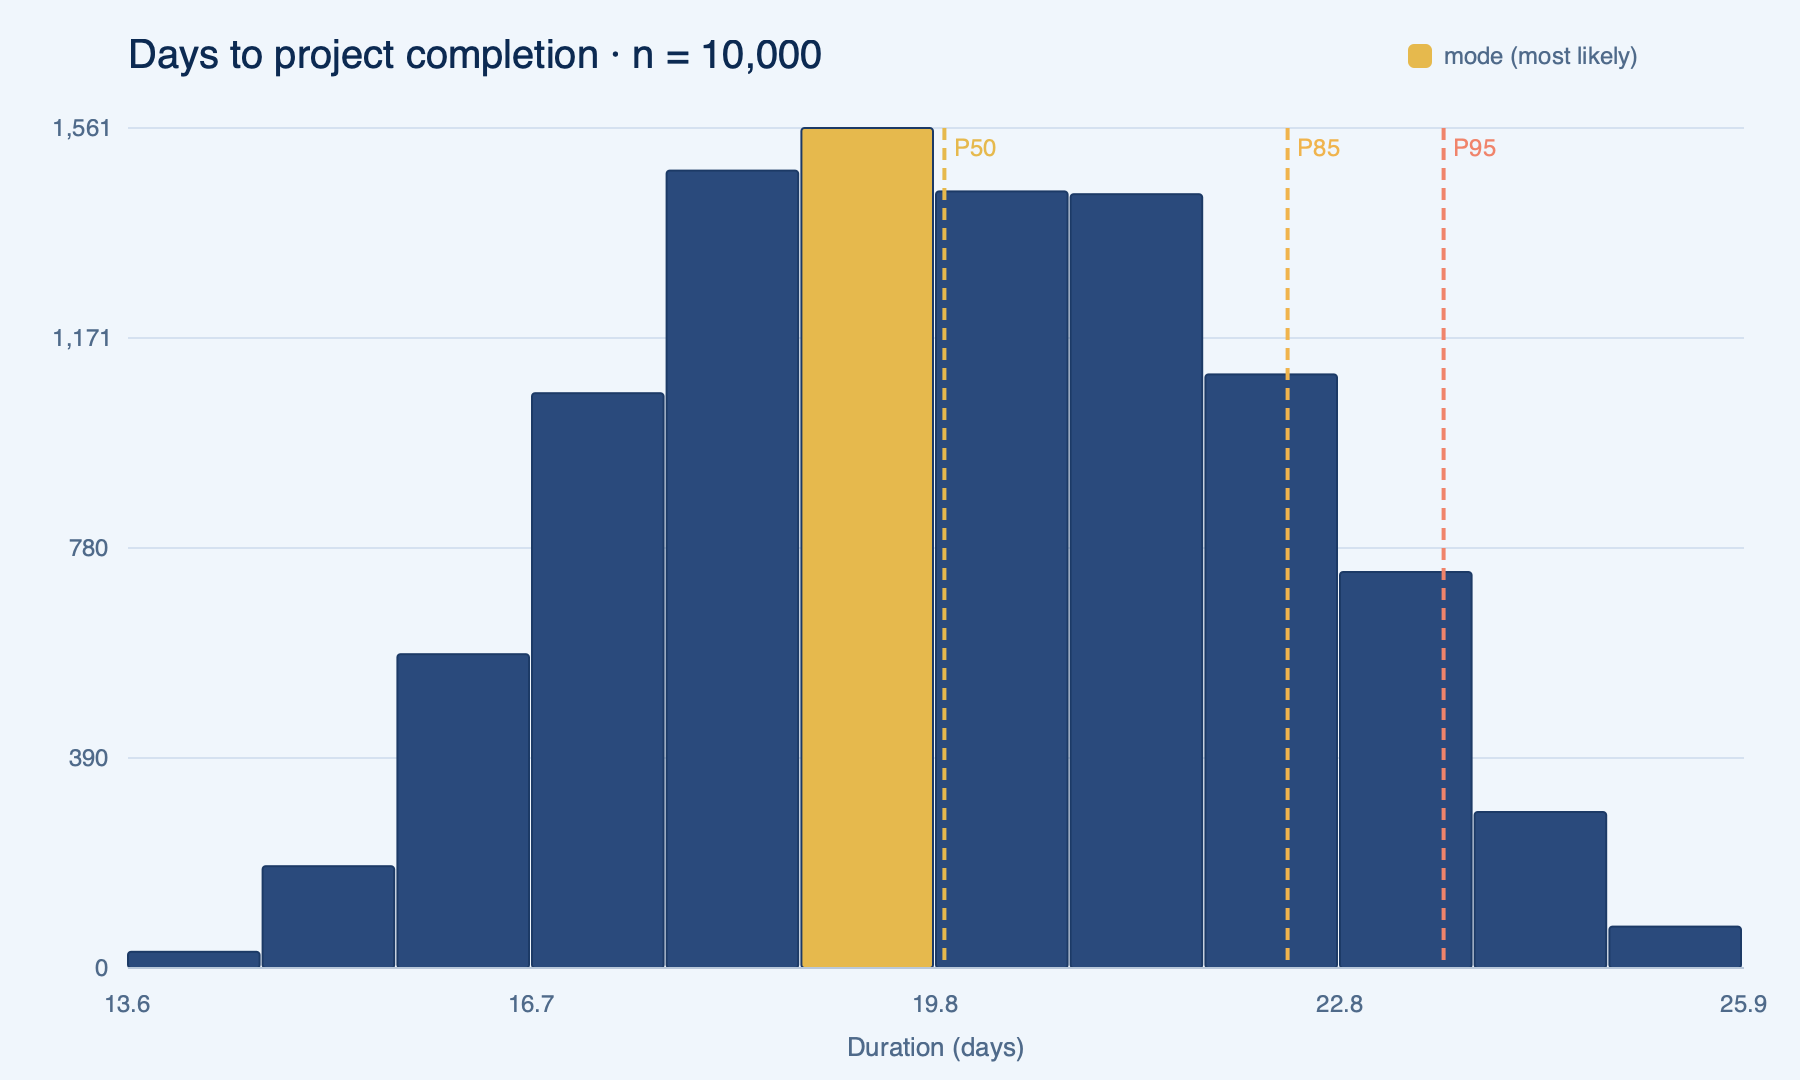
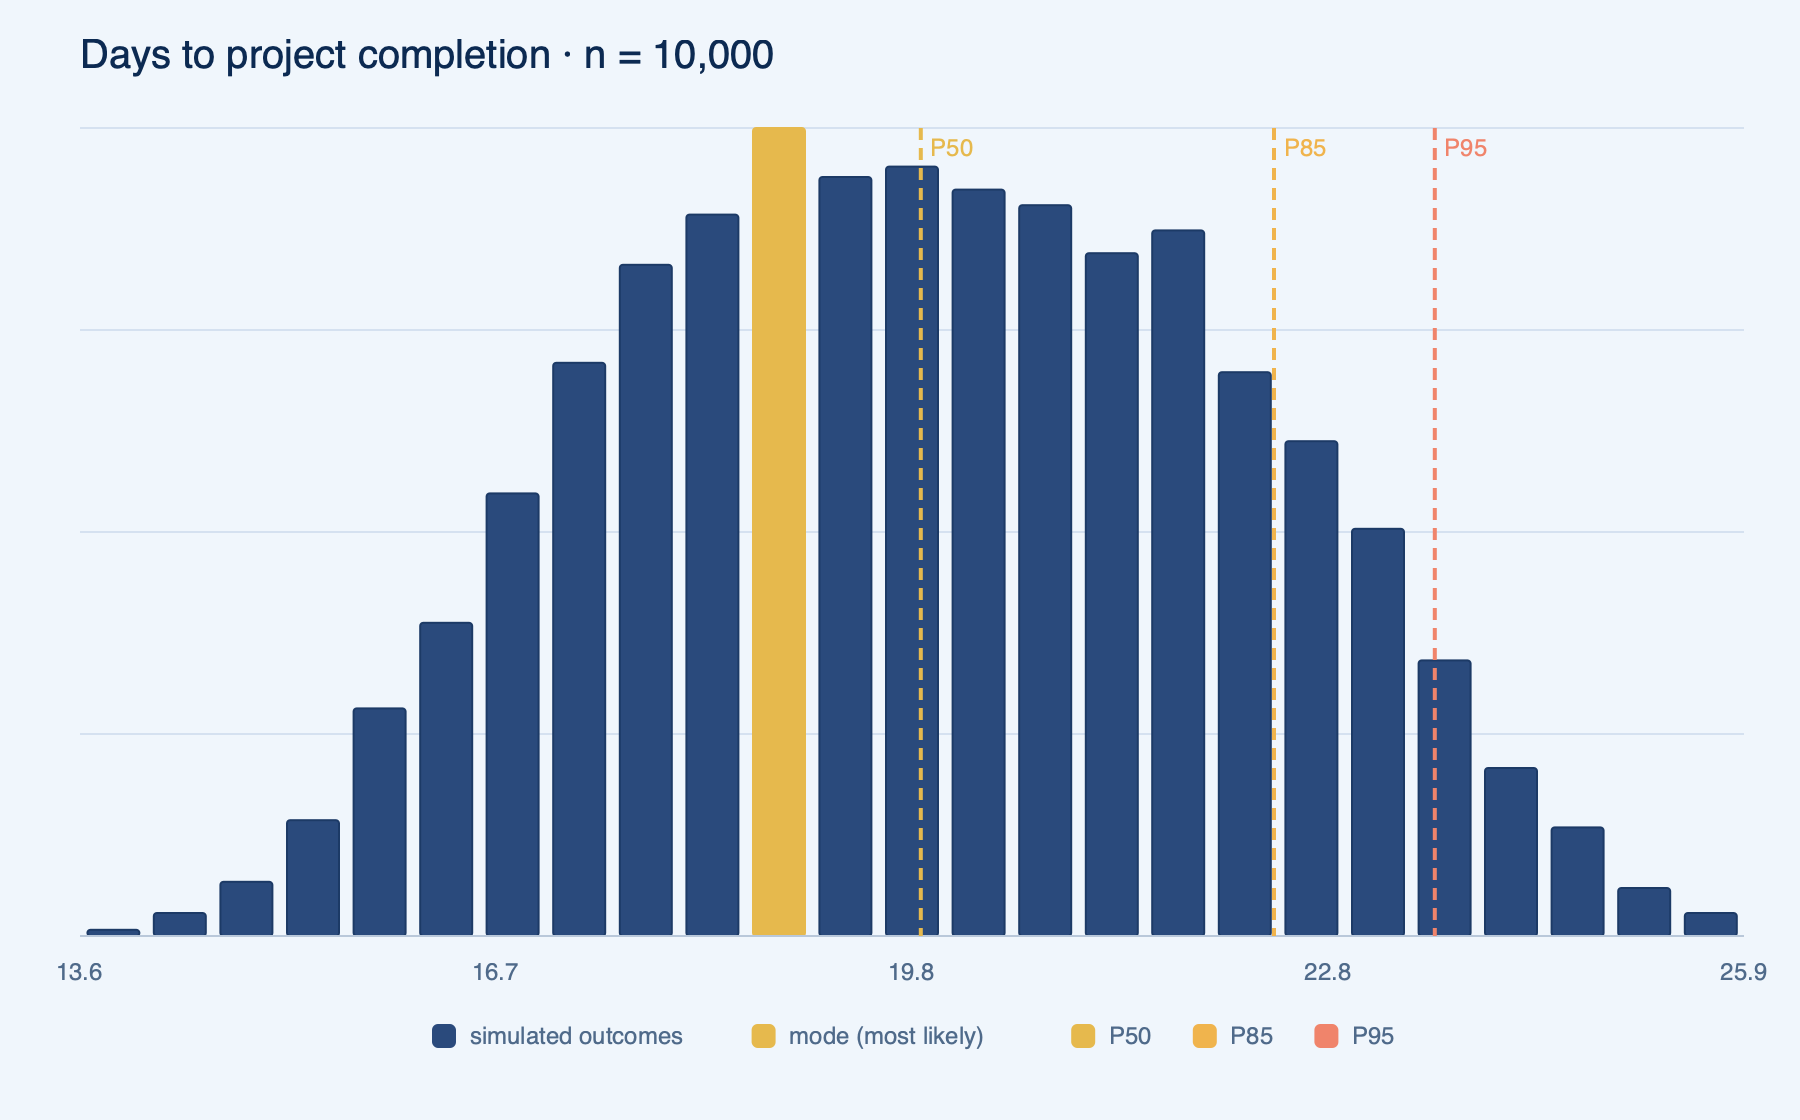
Merge pull request #22 from sepam/histogram-website-match
Match histogram styling to website mockup

Pull request: Match histogram styling to website mockup
Brings `Project.plot()` histograms in line with the look of `website/index.html`, which reads noticeably cleaner than the previous output.

## Changes
- **Binwidth** — ~2 bins/unit (clamped 20–48) for slim bars instead of a dozen fat blocks
- **Mode bar** — gold stroke instead of the navy bar edge, so its yellow reads clean, not muddy
- **Bar spacing** — proportional centered gap (`step*0.78`) so spacing stays even at any bin count
- **Y-axis** — dropped the count labels; gridlines alone carry the scale
- **Legend** — centered row beneath the chart (outcomes / mode / P50 / P85 / P95) in place of the cramped single key in the title band
- **X-axis** — dropped the redundant "Duration (days)" title (the heading already says "days")

Regenerated `example/monte_carlo_estimation.{svg,png}`.

## Verification
- `pytest tests/test_charts.py` — 23 passed
- Regenerated and visually compared the example PNG against the mockup

> Note: the README embeds the histogram via a version-pinned CDN URL (`.../v0.3.0/example/...`), so the README image won't reflect this until a new release tag or a repoint to a branch ref.

🤖 Generated with [Claude Code](https://claude.com/claude-code)

diff --git a/src/planaco/charts.py b/src/planaco/charts.py
@@ -171,7 +171,9 @@ def _bin_count(sims: "np.ndarray") -> int:
     span = float(sims.max() - sims.min())
     if span <= 0:
         return 1
-    return int(min(40, max(12, math.floor(span))))
+    # ~2 bins per unit gives the slim, web-clean bars from website/index.html
+    # (~26 bars across a typical project span) rather than a dozen fat blocks.
+    return int(min(48, max(20, round(span * 2))))
 
 
 def _gaussian_kde(sims: "np.ndarray", grid: "np.ndarray") -> "np.ndarray":
@@ -208,8 +210,10 @@ def histogram(
     data = np.asarray(sims, dtype=float)
     n = n if n is not None else len(data)
 
-    W, H = 900, 540
-    pad_l, pad_r, pad_t, pad_b = 64, 28, 64, 56
+    W, H = 900, 560
+    # No y labels (gridlines carry the scale), so the left margin is slim. The
+    # deep bottom margin makes room for the legend row beneath the x axis.
+    pad_l, pad_r, pad_t, pad_b = 40, 28, 64, 92
     plot_w = W - pad_l - pad_r
     plot_h = H - pad_t - pad_b
     base = pad_t + plot_h
@@ -232,33 +236,28 @@ def histogram(
         _text(pad_l, 34, title, fill=c["fg"], size=20, weight="700", font=_FONT_DISPLAY)
     )
 
-    # Horizontal gridlines + y labels
+    # Horizontal gridlines (unlabeled — the legend and percentile markers carry
+    # the meaning; numeric counts on the y axis are just clutter).
     for g in range(5):
         y = pad_t + plot_h * g / 4
         parts.append(_line(pad_l, y, pad_l + plot_w, y, stroke=c["grid"]))
-        value = y_max * (1 - g / 4)
-        parts.append(
-            _text(
-                pad_l - 10,
-                y + 4,
-                f"{round(value):,}",
-                fill=c["muted"],
-                size=12,
-                anchor="end",
-                font=_FONT_MONO,
-            )
-        )
 
-    # Bars (modal bar in gold)
+    # Bars (modal bar in gold). The gap is a fixed fraction of the slot width so
+    # spacing stays even at any bin count; the mode bar takes a gold stroke
+    # rather than the navy bar edge so its yellow reads clean, not muddy.
     for i, count in enumerate(counts):
         x0 = x_of(float(edges[i]))
         x1 = x_of(float(edges[i + 1]))
-        bw = max(1.0, x1 - x0 - 1.5)
+        step = x1 - x0
+        bw = max(1.0, step * 0.78)
+        bx = x0 + (step - bw) / 2
         bh = plot_h * count / y_max
-        fill = c["gold"] if i == mode_idx else c["bar"]
+        is_mode = i == mode_idx
+        fill = c["gold"] if is_mode else c["bar"]
+        stroke = c["gold"] if is_mode else c["bar_edge"]
         parts.append(
-            f'<rect x="{x0:.1f}" y="{base - bh:.1f}" width="{bw:.1f}" '
-            f'height="{bh:.1f}" rx="1.5" fill="{fill}" stroke="{c["bar_edge"]}" '
+            f'<rect x="{bx:.1f}" y="{base - bh:.1f}" width="{bw:.1f}" '
+            f'height="{bh:.1f}" rx="1.5" fill="{fill}" stroke="{stroke}" '
             f'stroke-width="1"/>'
         )
 
@@ -291,16 +290,6 @@ def histogram(
                 font=_FONT_MONO,
             )
         )
-    parts.append(
-        _text(
-            pad_l + plot_w / 2,
-            H - 12,
-            f"Duration ({unit})",
-            fill=c["muted"],
-            size=13,
-            anchor="middle",
-        )
-    )
 
     # Percentile markers (or the median); each line is labeled inline.
     if show_percentiles:
@@ -336,14 +325,28 @@ def histogram(
             )
         )
 
-    # A single "mode" key in the title band (explains the gold bar).
-    parts.append(
-        f'<rect x="{W - pad_r - 168}" y="22" width="12" height="12" rx="3" '
-        f'fill="{c["gold"]}"/>'
-    )
-    parts.append(
-        _text(W - pad_r - 150, 32, "mode (most likely)", fill=c["muted"], size=12)
-    )
+    # Legend row, centered beneath the x axis. Mirrors website/index.html: the
+    # navy bars, the gold mode bar, then the percentile markers in play.
+    legend = [
+        ("simulated outcomes", c["bar"]),
+        ("mode (most likely)", c["gold"]),
+    ]
+    if show_percentiles:
+        legend += [(f"P{p}", percentile_color(p)) for p in percentiles]
+    else:
+        legend.append(("P50", c["gold"]))
+
+    sw, sw_gap, item_gap = 12, 7, 22
+    widths = [sw + sw_gap + len(label) * 6.6 for label, _ in legend]
+    lx = pad_l + plot_w / 2 - (sum(widths) + item_gap * (len(legend) - 1)) / 2
+    ly = base + 54
+    for (label, color), w in zip(legend, widths):
+        parts.append(
+            f'<rect x="{lx:.1f}" y="{ly - 10:.1f}" width="{sw}" height="{sw}" '
+            f'rx="3" fill="{color}"/>'
+        )
+        parts.append(_text(lx + sw + sw_gap, ly, label, fill=c["muted"], size=12))
+        lx += w + item_gap
 
     parts.append("</svg>")
     return Chart("\n".join(parts))